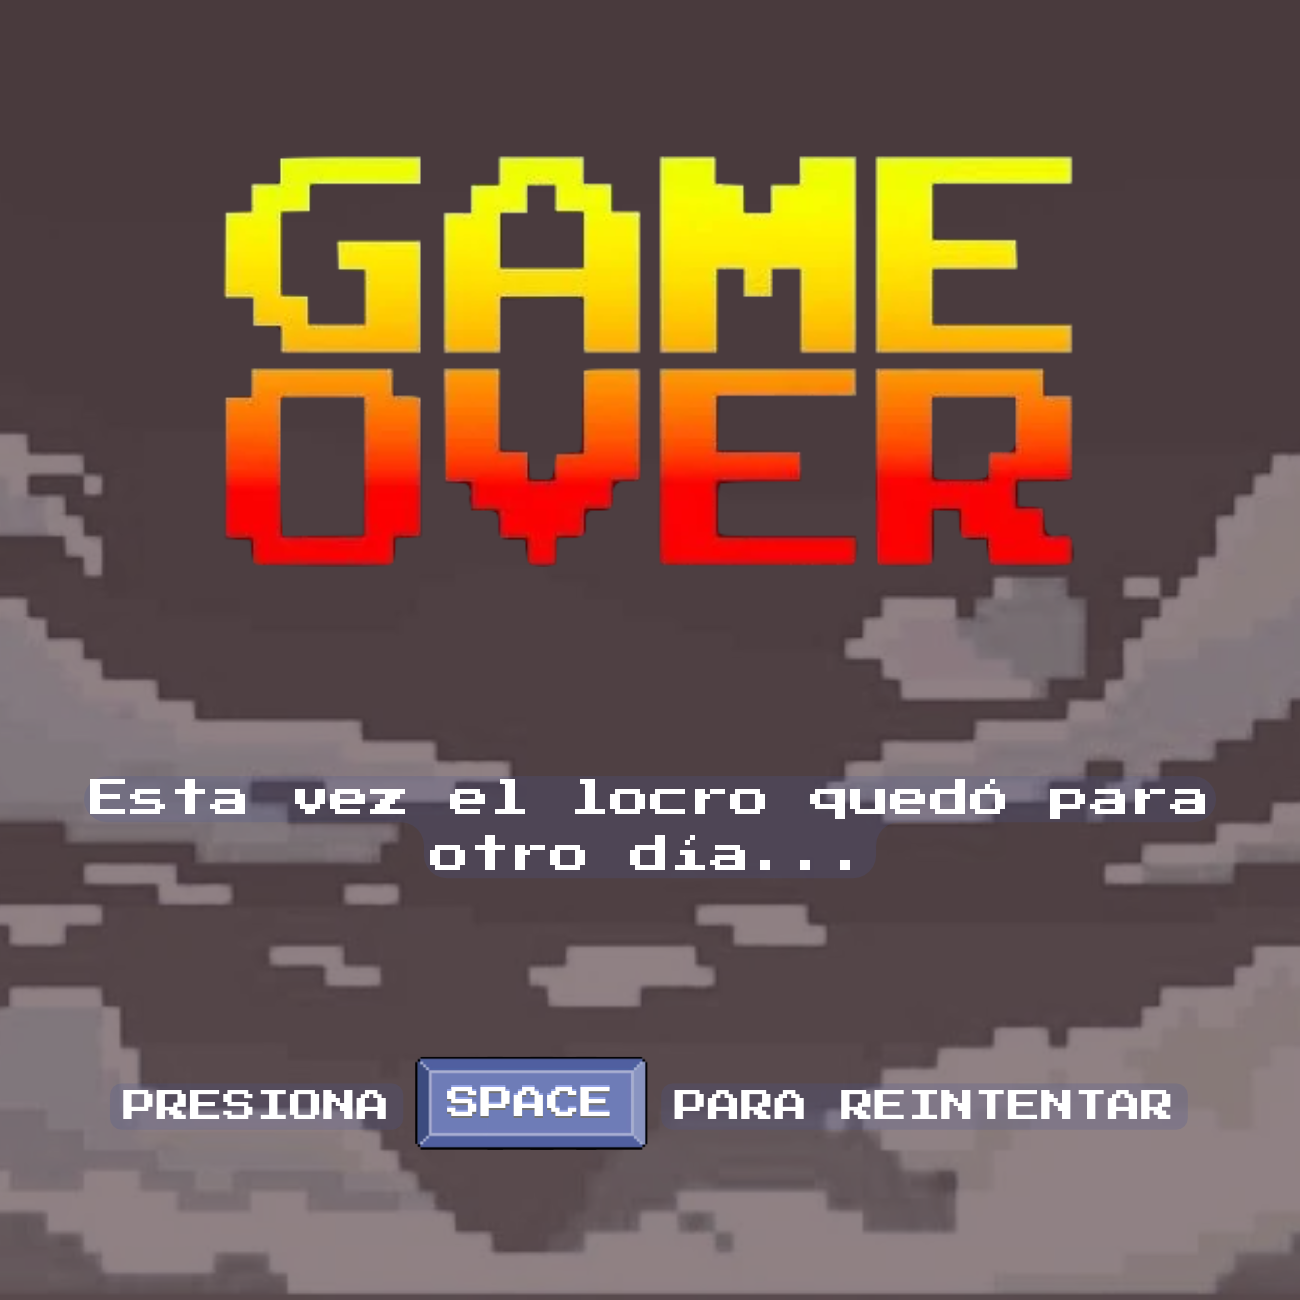
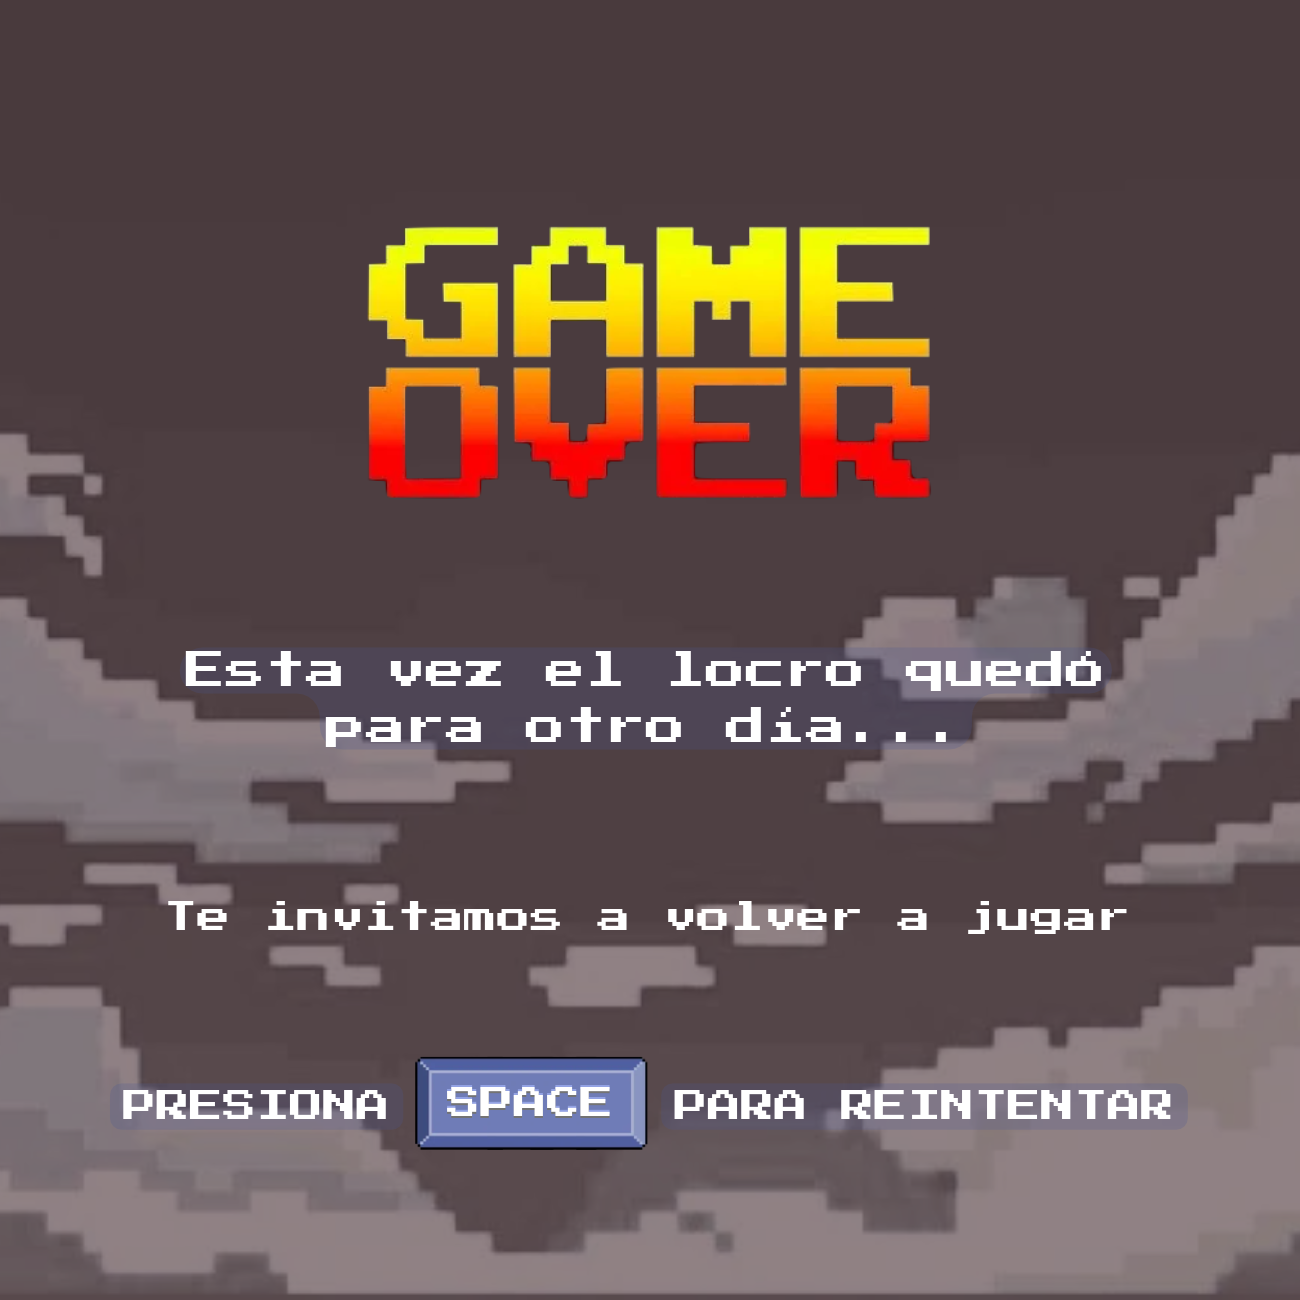
avances

diff --git a/README.md b/README.md
@@ -48,7 +48,7 @@ Jacinta tiene que atravesar la pista de baile esquivando a las parejas que baila
 
 ## Otros
 - Programación con Objetos I - Universidad Nacional de Quilmes
-- Versión de wollok: 4.0.0
+- Versión de wollok: 4.3.0
 - Una vez terminado, no tenemos problemas en que el repositorio sea público.
 
 ## Notas
